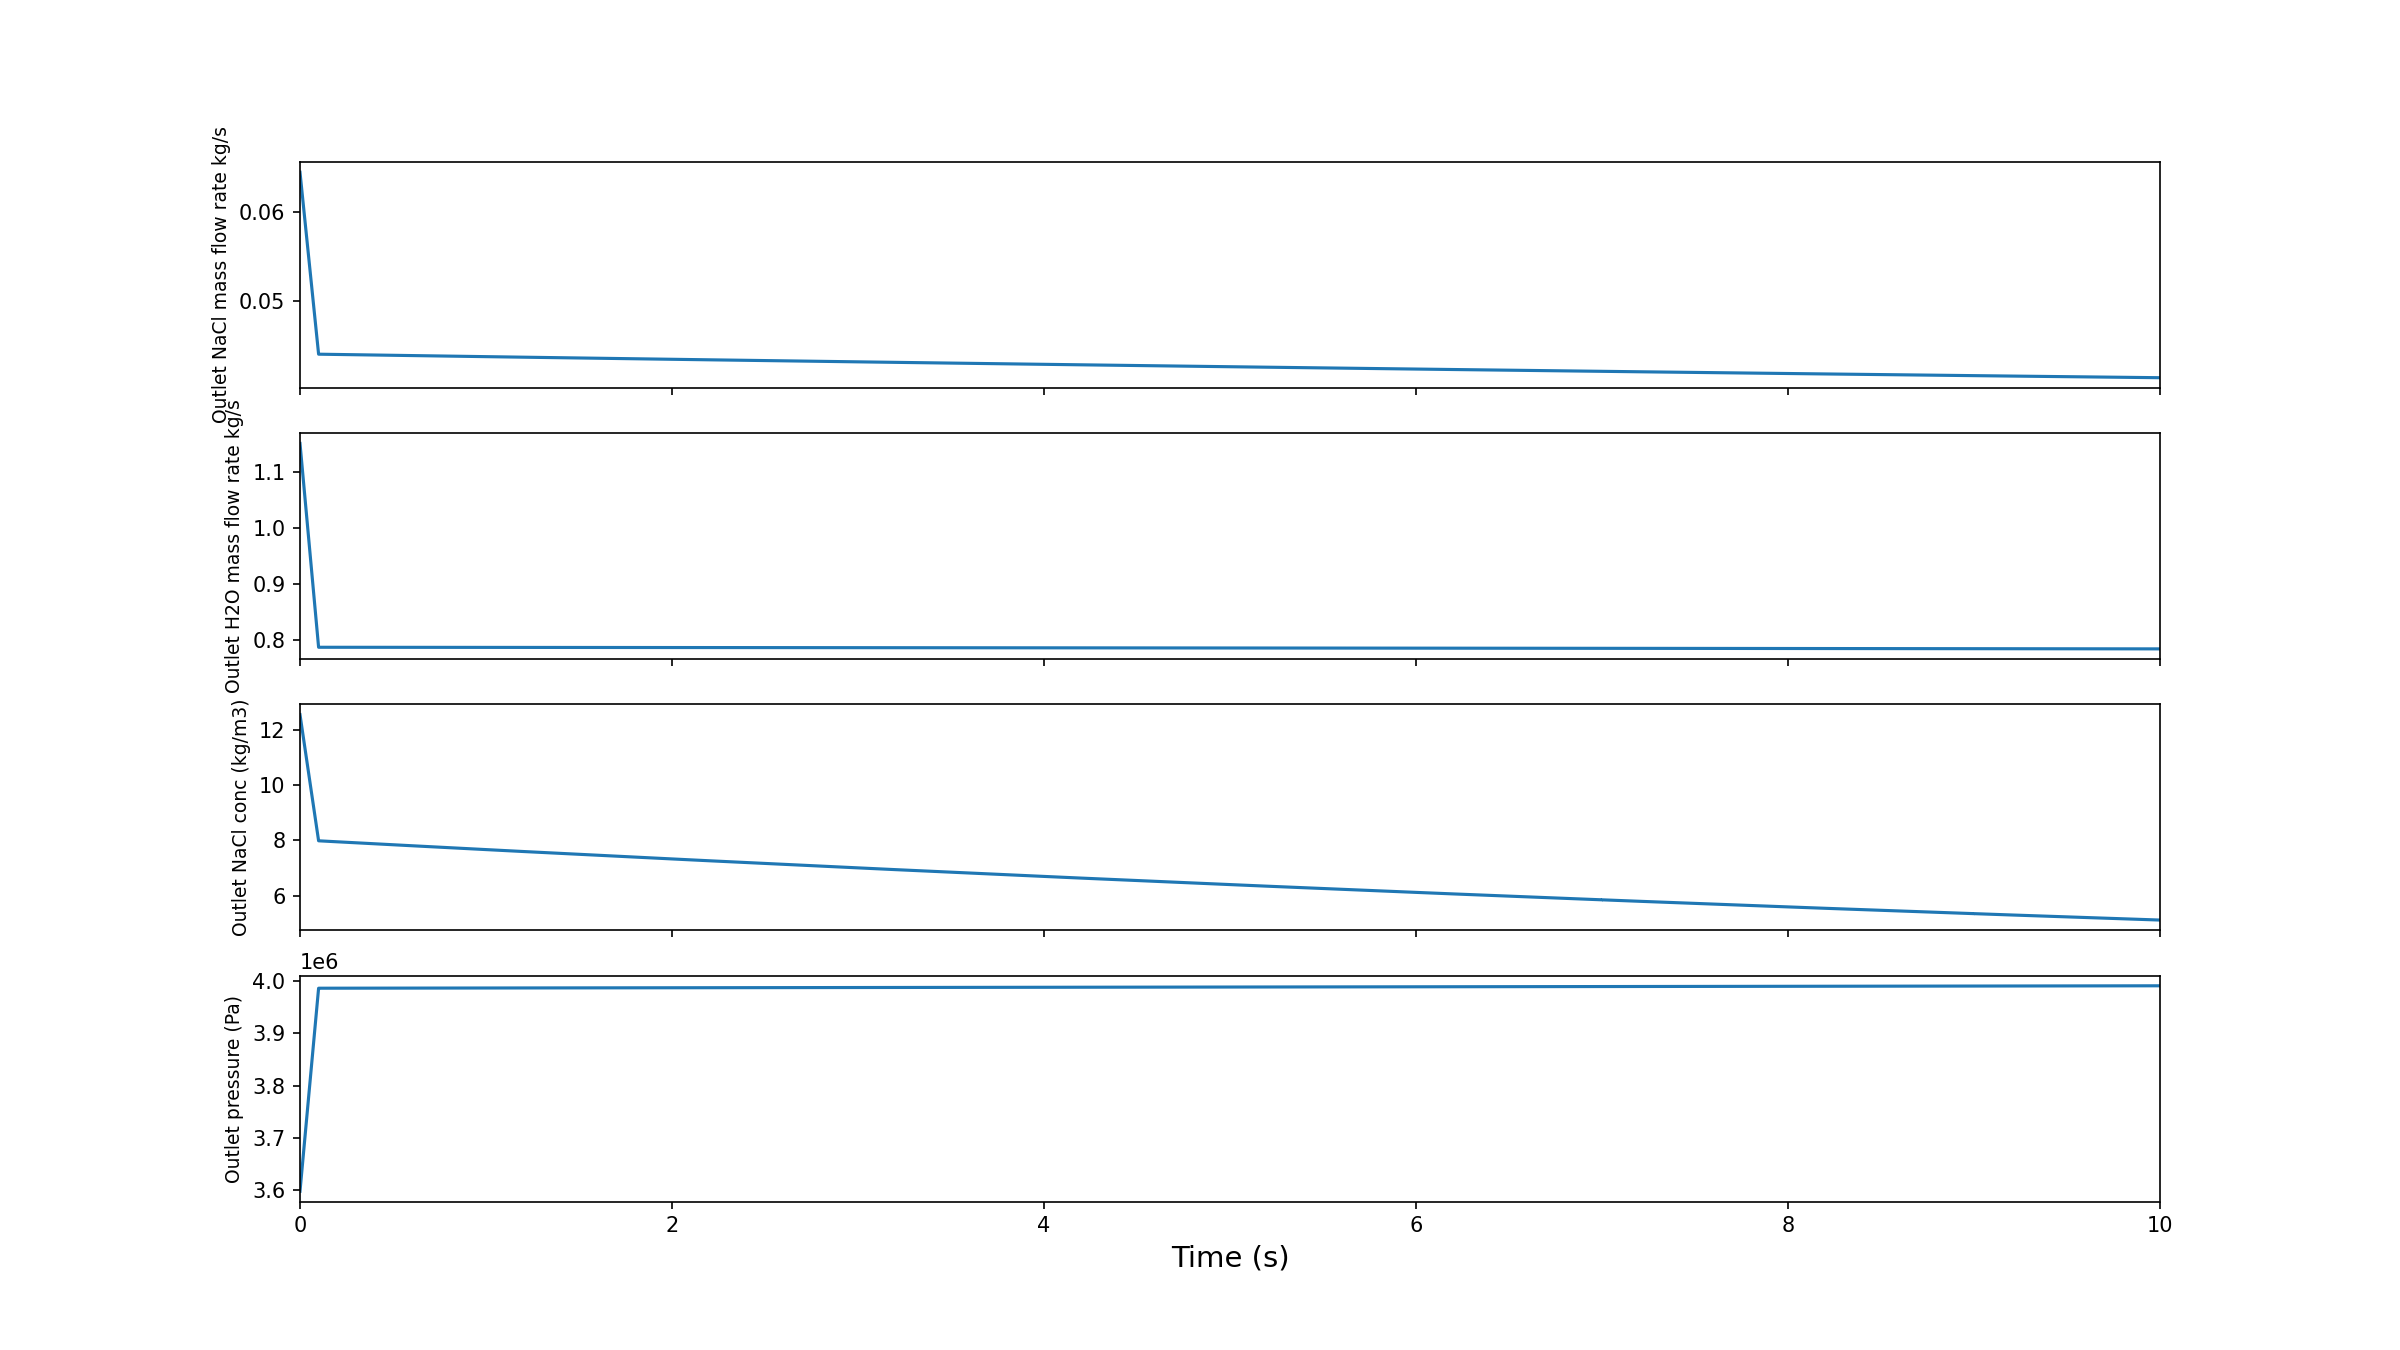
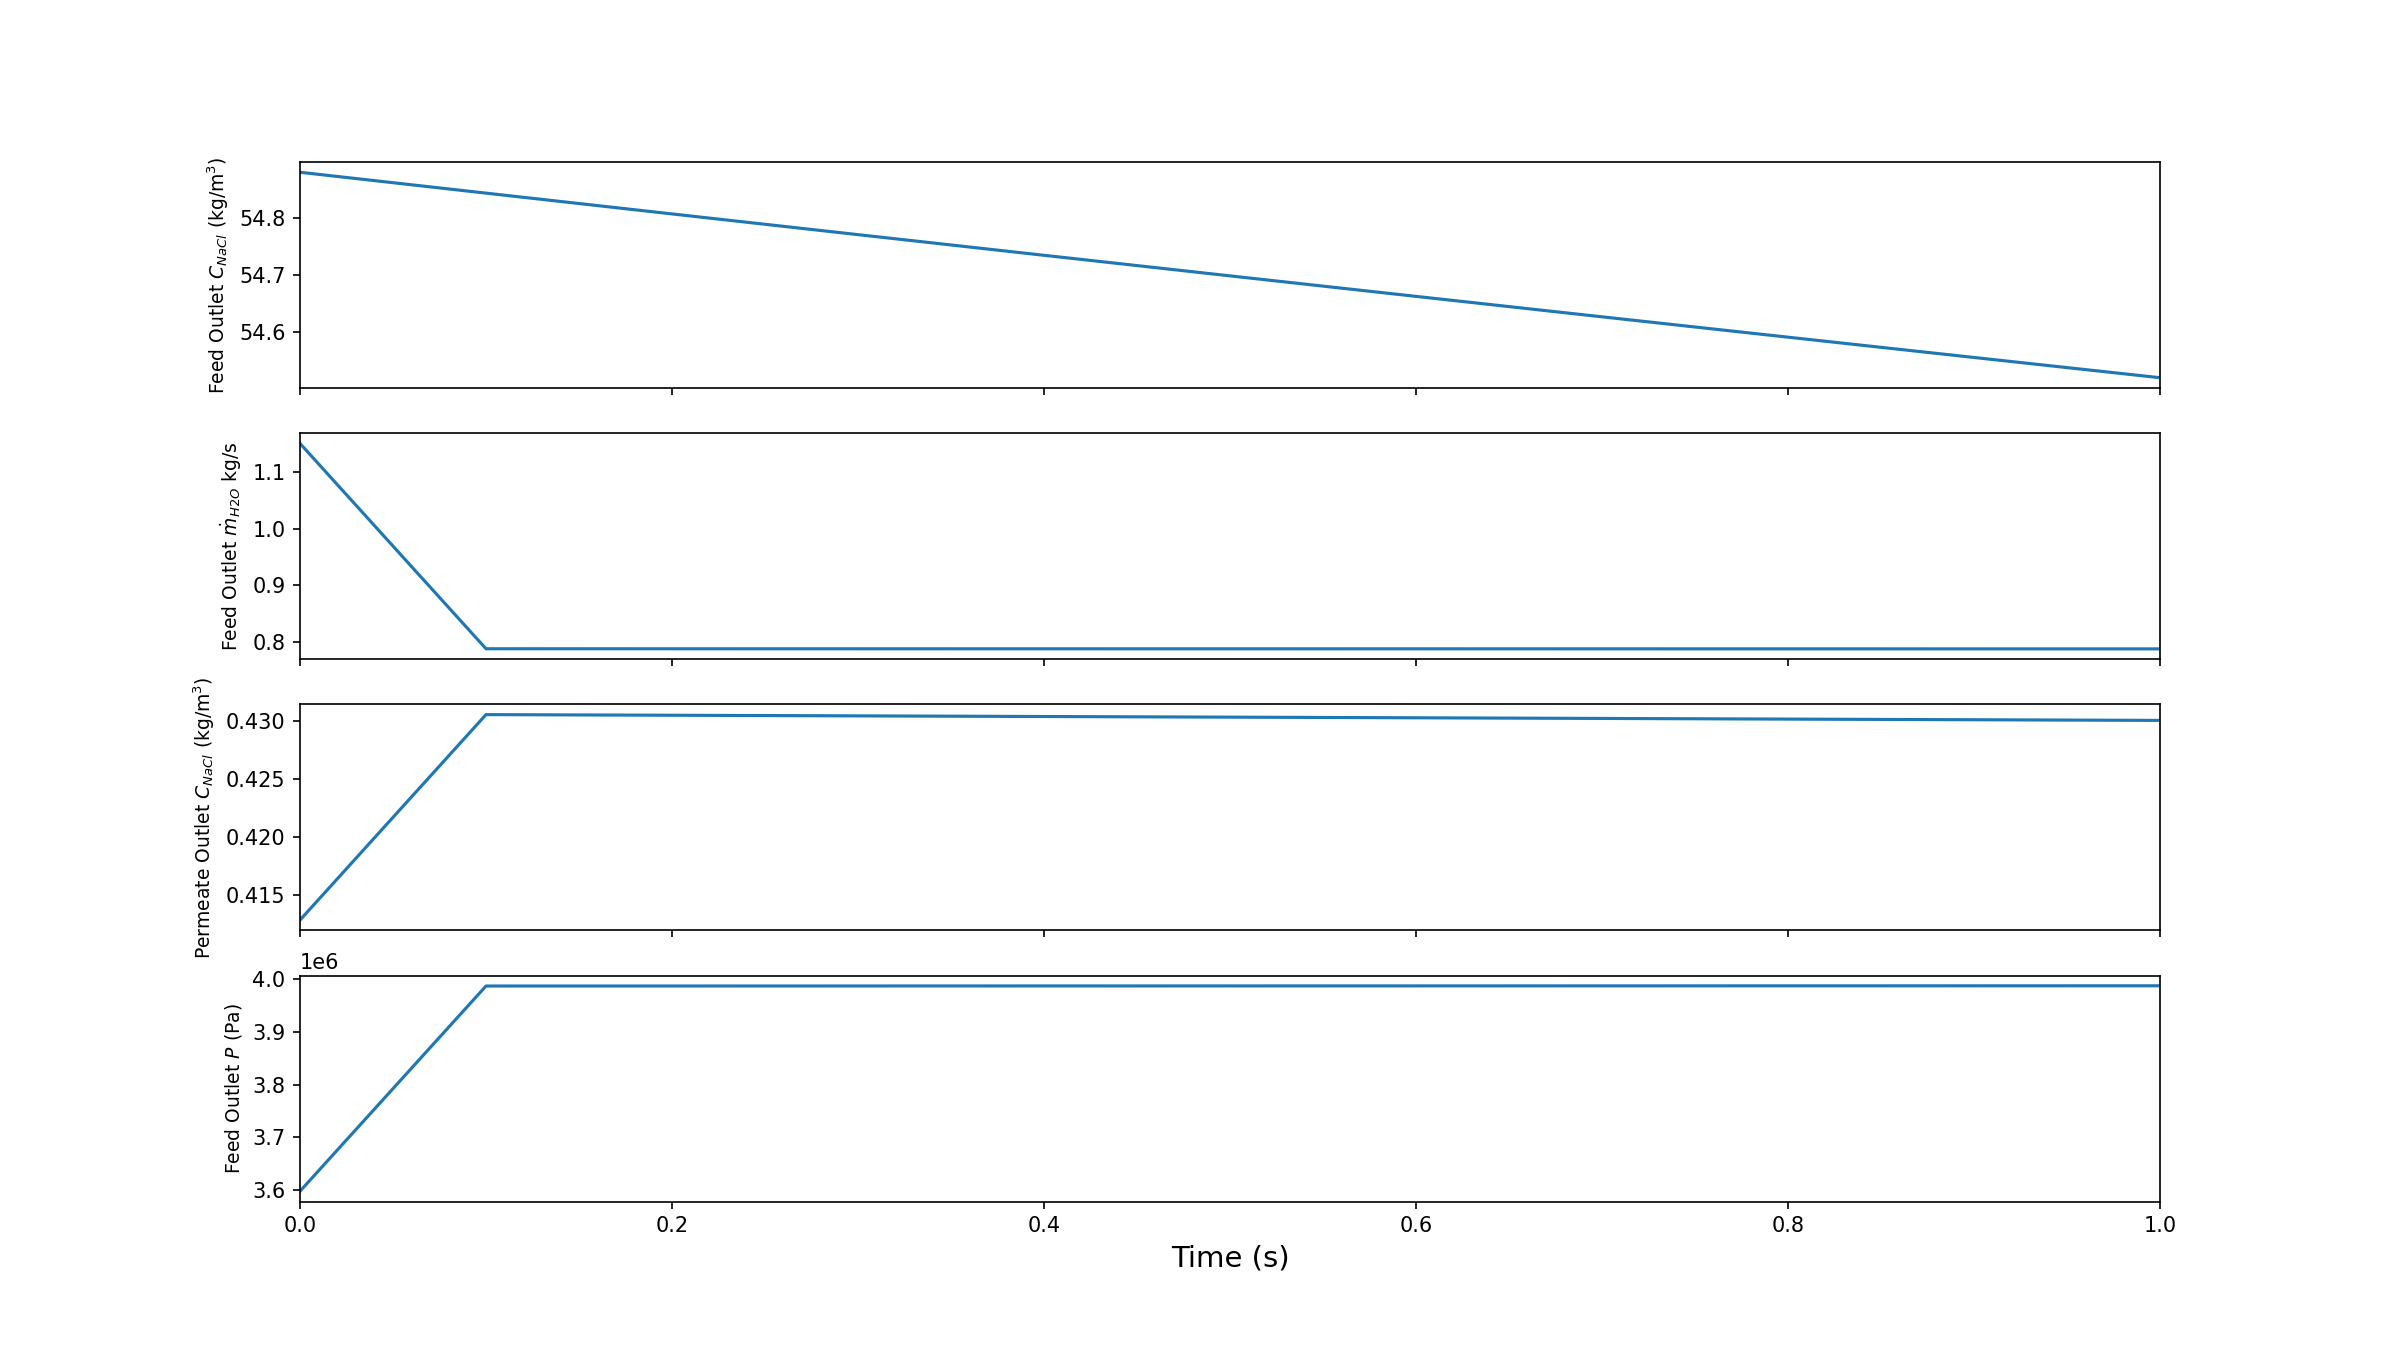
Plotting feed outlet C_NaCl

diff --git a/watertap/unit_models/tests/test_reverse_osmosis_0D.py b/watertap/unit_models/tests/test_reverse_osmosis_0D.py
@@ -1005,7 +1005,9 @@ def test_RO_dynamic_instantiation():
     # TODO: add test to check exception for simplest RO0D with dynamics
 
     m = ConcreteModel()
-    m.fs = FlowsheetBlock(dynamic=True, time_set=[0, 1, 2, 3, 4, 5, 6, 7, 8, 9, 10], time_units=pyunits.s)
+    # m.fs = FlowsheetBlock(dynamic=True, time_set=[0, 1, 2, 3, 4, 5, 6, 7, 8, 9, 10], time_units=pyunits.s)
+    m.fs = FlowsheetBlock(dynamic=True, time_set=[0.0, 0.1, 0.2, 0.3, 0.4, 0.5, 0.6, 0.7, 0.8, 0.9, 1.0], time_units=pyunits.s)
+
 
     m.fs.properties = props.NaClParameterBlock()
 
@@ -1124,9 +1126,9 @@ def test_RO_dynamic_instantiation():
     print('b4 results_dict')
     results_dict = {
         "time": np.array(traj.time),
-        "outlet.flow_mass_phase_comp.NaCl": np.array(traj.vecs[str(m.fs.unit.feed_side.properties_out[tf].flow_mass_phase_comp['Liq','NaCl'])]),
+        "outlet.flow_mass_phase_comp.NaCl": np.array(traj.vecs[str(m.fs.unit.feed_side.properties_out[tf].conc_mass_phase_comp['Liq','NaCl'])]),
         "outlet.flow_mass_phase_comp.H2O": np.array(traj.vecs[str(m.fs.unit.feed_side.properties_out[tf].flow_mass_phase_comp['Liq','H2O'])]),
-        "outlet.conc_mass_phase_comp.NaCl": np.array(traj.vecs[str(m.fs.unit.permeate_side[tf, 1.0].conc_mass_phase_comp['Liq','NaCl'])]),
+        "outlet.conc_mass_phase_comp.NaCl": np.array(traj.vecs[str(m.fs.unit.mixed_permeate[tf].conc_mass_phase_comp['Liq','NaCl'])]),
         "outlet.pressure": np.array(traj.vecs[str(m.fs.unit.feed_side.properties_out[tf].pressure)])
     }
     # print(np.array(traj.vecs[str(m.fs.unit.feed_side.properties_out[tf].flow_mass_phase_comp['Liq','H2O'])]))
@@ -1146,10 +1148,10 @@ def test_RO_dynamic_instantiation():
     ax[0].set_xlim(time[0], time[-1])
     # ax.set_ylim((0.65, 1.45))
     ax[3].set_xlabel("Time (s)", fontsize=14)
-    ax[0].set_ylabel("Feed Outlet NaCl mass flow rate kg/s", fontsize=9)
-    ax[1].set_ylabel("Feed Outlet H2O mass flow rate kg/s", fontsize=9)
-    ax[2].set_ylabel("Permeate Outlet NaCl conc (kg/m3)", fontsize=9)
-    ax[3].set_ylabel("Outlet pressure (Pa)", fontsize=9)
+    ax[0].set_ylabel("Feed Outlet $C_{NaCl}$ (kg/m$^3$)", fontsize=9)
+    ax[1].set_ylabel("Feed Outlet $\dot{m}_{H2O}$ kg/s", fontsize=9)
+    ax[2].set_ylabel("Permeate Outlet $C_{NaCl}$ (kg/m$^3$)", fontsize=9)
+    ax[3].set_ylabel("Feed Outlet $P$ (Pa)", fontsize=9)
     
     # ax.set_title("SOEC Voltage", fontsize=16)
     plt.savefig("test_plot.png", dpi=150)
